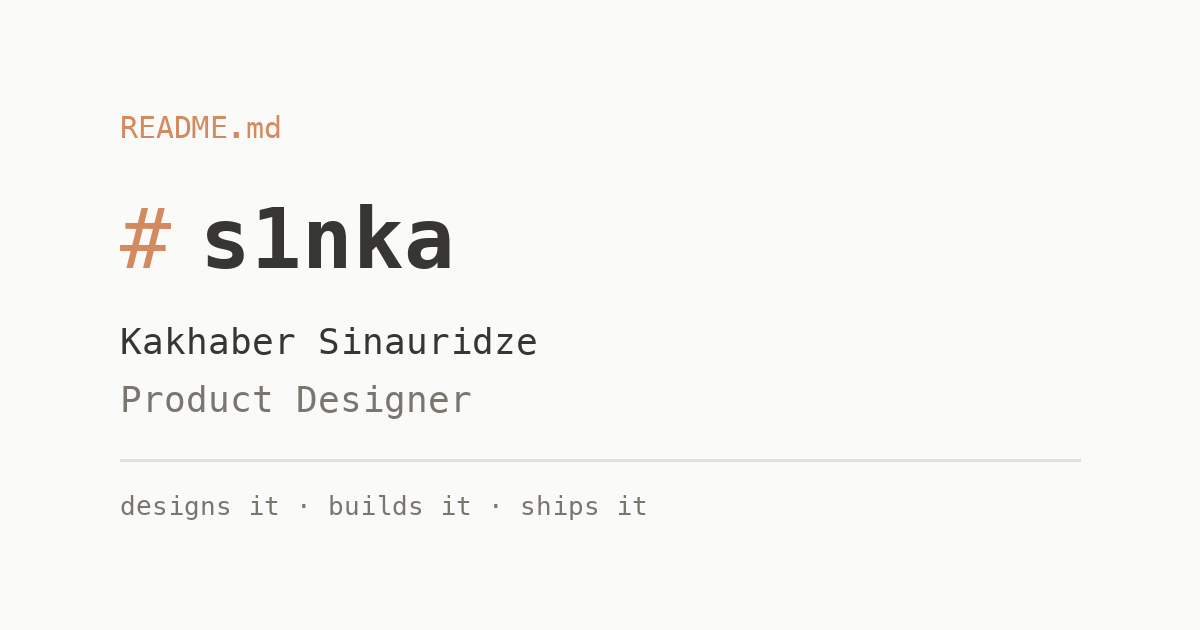
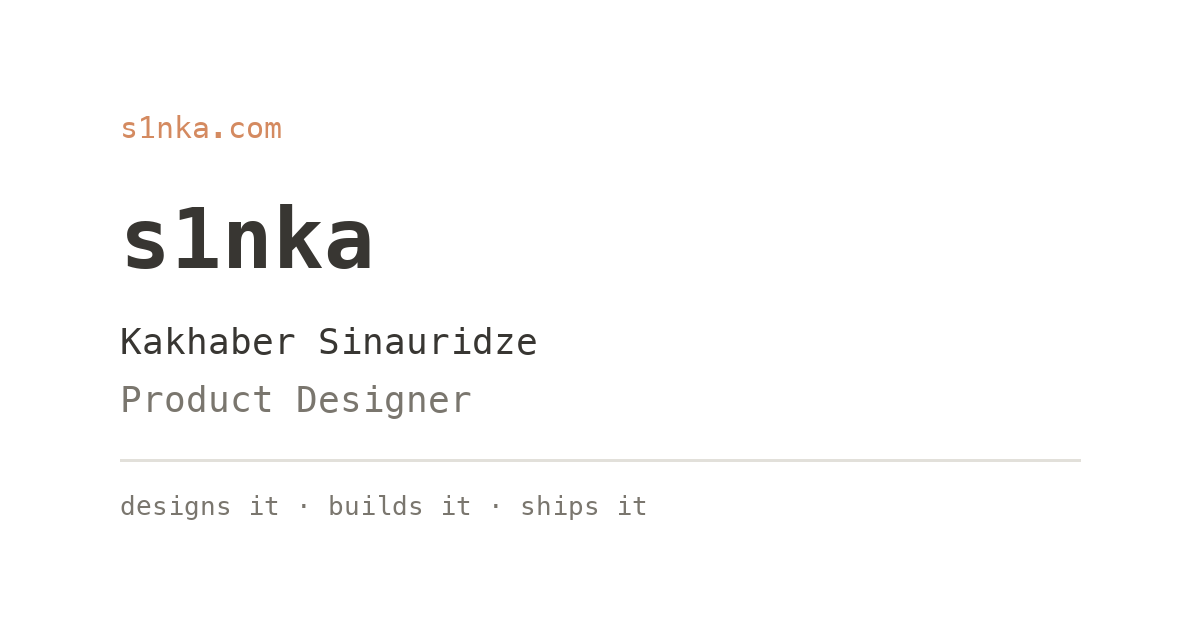
White background; og.png regenerated to match (white, no md tokens)

Changed region(s): [[0.0925, 0.3016, 0.4008, 0.4524], [0.0925, 0.181, 0.2467, 0.2413]]

diff --git a/src/styles.css b/src/styles.css
@@ -82,7 +82,7 @@
 
 :root {
   --radius: 0.625rem;
-  --background: oklch(0.985 0.004 90);
+  --background: oklch(1 0 0);
   --foreground: oklch(0.22 0.01 80);
   --md-token: oklch(0.72 0.11 45);
   --card: oklch(1 0 0);
